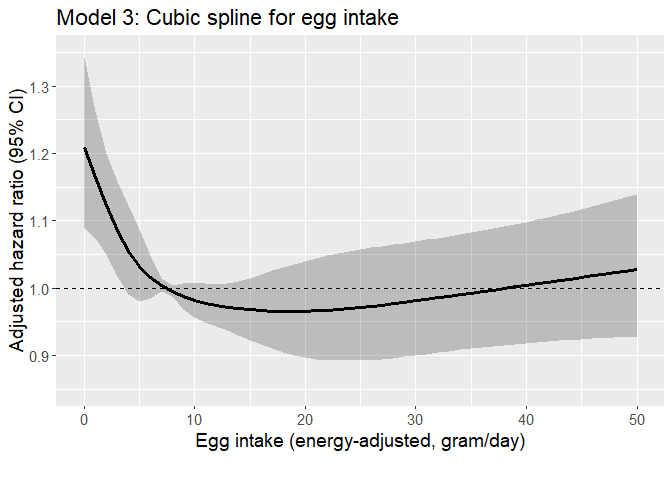
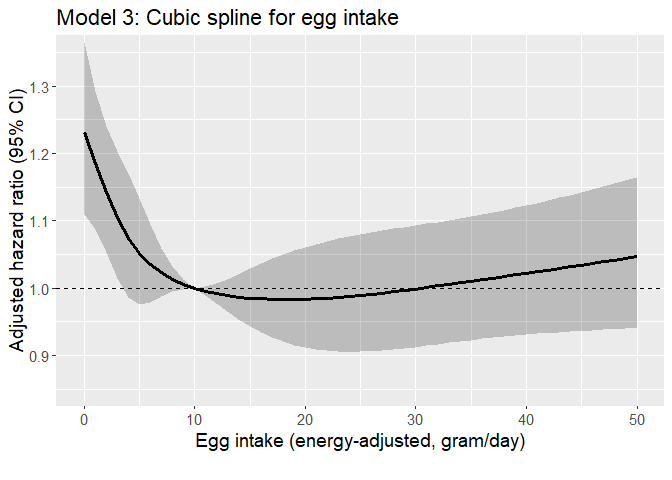
Add egg/veg HRs from rcs

Changed region(s): [[0.125, 0.0938, 0.9688, 0.75], [0.1875, 0.625, 0.2188, 0.6562]]

diff --git a/summary.md b/summary.md
@@ -568,6 +568,28 @@ Egg dementia study
 
 ![](summary_files/figure-gfm/cubic_spline-1.png)<!-- -->![](summary_files/figure-gfm/cubic_spline-2.png)<!-- -->
 
+- Tables below shows adjusted HR for some representative values of egg
+  gram intake (reference = 10 gram/day).
+
+| eggs_gram_ea |   HR | lower | upper |
+|-------------:|-----:|------:|------:|
+|            0 | 1.23 |  1.11 |  1.36 |
+|           20 | 0.98 |  0.91 |  1.06 |
+|           30 | 1.00 |  0.91 |  1.09 |
+|           40 | 1.02 |  0.93 |  1.12 |
+|           50 | 1.05 |  0.94 |  1.16 |
+
+- Tables below shows adjusted HR for some representative values of
+  vegetable gram intake (reference = 300 gram/day).
+
+| totalveg_gram_ea |   HR | lower | upper |
+|-----------------:|-----:|------:|------:|
+|                0 | 1.41 |  1.18 |  1.67 |
+|              100 | 1.12 |  1.03 |  1.22 |
+|              200 | 0.96 |  0.90 |  1.03 |
+|              400 | 1.04 |  0.98 |  1.10 |
+|              800 | 1.01 |  0.91 |  1.13 |
+
 ## Notes for additional analyses
 
 - Combine semi- and non-vegetarians into one group and make this as
